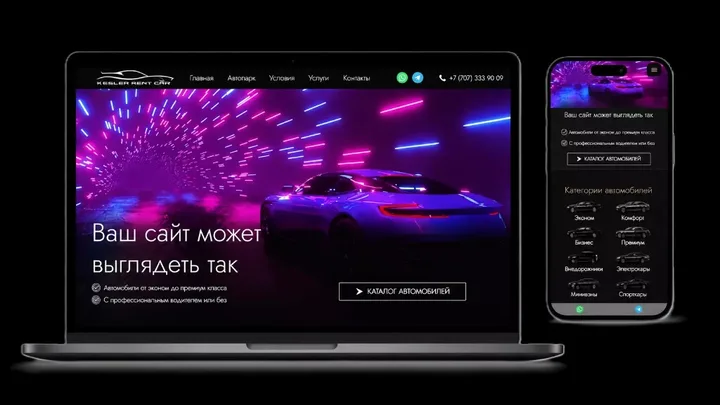
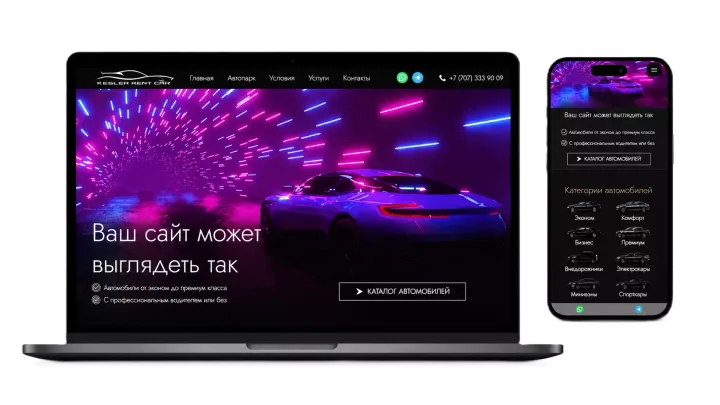
Restore transparent studio hero mockup without black background.

diff --git a/web-studiya/index.html b/web-studiya/index.html
@@ -253,8 +253,8 @@
             <img
               src="../assets/img/studio/hero-laptop.webp"
               alt="Пример сайта на ноутбуке и смартфоне"
-              width="1024"
-              height="576"
+              width="1200"
+              height="675"
               fetchpriority="high"
               loading="eager"
               decoding="async"
